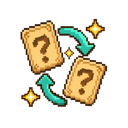
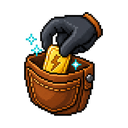
Replace Sneaky Swap with Pickpocket

diff --git a/test/race_detail_sneaky_swap_targets_test.dart b/test/race_detail_sneaky_swap_targets_test.dart
@@ -41,9 +41,21 @@ class _SneakySwapBackendApiService extends BackendApiService {
       'powerupsEnabled': true,
       'endsAt': '2026-12-10T12:00:00.000Z',
       'participants': const [
-        {'userId': 'user-1', 'displayName': 'Trail Walker', 'status': 'ACCEPTED'},
-        {'userId': 'user-2', 'displayName': 'Hill Climber', 'status': 'ACCEPTED'},
-        {'userId': 'user-3', 'displayName': 'Ridge Runner', 'status': 'ACCEPTED'},
+        {
+          'userId': 'user-1',
+          'displayName': 'Trail Walker',
+          'status': 'ACCEPTED',
+        },
+        {
+          'userId': 'user-2',
+          'displayName': 'Hill Climber',
+          'status': 'ACCEPTED',
+        },
+        {
+          'userId': 'user-3',
+          'displayName': 'Ridge Runner',
+          'status': 'ACCEPTED',
+        },
       ],
     };
   }
@@ -78,7 +90,12 @@ class _SneakySwapBackendApiService extends BackendApiService {
       'powerupData': const {
         'enabled': true,
         'inventory': [
-          {'id': 'pw-sneaky-1', 'type': 'SNEAKY_SWAP', 'rarity': 'RARE', 'status': 'HELD'},
+          {
+            'id': 'pw-sneaky-1',
+            'type': 'SNEAKY_SWAP',
+            'rarity': 'RARE',
+            'status': 'HELD',
+          },
         ],
         'powerupSlots': 3,
         'queuedBoxCount': 0,
@@ -145,6 +162,11 @@ Future<void> _openSneakySwapUse(WidgetTester tester) async {
   await tester.tap(heldSlot);
   await _pumpFrames(tester);
 
+  // The wire type and endpoint keep their legacy names for frozen-client
+  // compatibility, but no current player-facing surface may show that name.
+  expect(find.text('Pickpocket'), findsWidgets);
+  expect(find.text('Sneaky Swap'), findsNothing);
+
   // Tap USE in the actions sheet -> triggers the target resolution + picker.
   expect(find.text('USE'), findsOneWidget);
   await tester.tap(find.text('USE'));
@@ -155,7 +177,7 @@ void main() {
   TestWidgetsFlutterBinding.ensureInitialized();
 
   testWidgets(
-    'Sneaky Swap picker shows only racers returned by the new endpoint',
+    'Pickpocket picker shows only racers returned by the legacy endpoint',
     (WidgetTester tester) async {
       final authService = await _createAuthService();
       // Endpoint reports only Hill Climber (user-2) has something stealable.
@@ -204,15 +226,13 @@ void main() {
       );
 
       // Dismiss the picker sheet so no route animation is left pending.
-      Navigator.of(
-        tester.element(find.text('CHOOSE A TARGET')),
-      ).pop();
+      Navigator.of(tester.element(find.text('CHOOSE A TARGET'))).pop();
       await _pumpFrames(tester);
     },
   );
 
   testWidgets(
-    'Sneaky Swap shows an empty-state and no picker when no one has a stealable powerup',
+    'Pickpocket shows an empty-state and no picker when no one has a stealable powerup',
     (WidgetTester tester) async {
       final authService = await _createAuthService();
       final api = _SneakySwapBackendApiService(targets: const []);
@@ -238,7 +258,7 @@ void main() {
         findsOneWidget,
       );
       // No target picker was opened.
-      expect(find.text('TARGET FOR SNEAKY SWAP'), findsNothing);
+      expect(find.text('TARGET FOR PICKPOCKET'), findsNothing);
 
       // Let the toast auto-dismiss timer + reverse animation finish so no
       // Timer/animation is left pending at test teardown. (Avoid pumpAndSettle:

diff --git a/test/shop_tab_store_inventory_test.dart b/test/shop_tab_store_inventory_test.dart
@@ -4,7 +4,9 @@ import 'package:shared_preferences/shared_preferences.dart';
 import 'package:step_tracker/screens/tabs/shop_tab.dart';
 import 'package:step_tracker/services/auth_service.dart';
 import 'package:step_tracker/services/backend_api_service.dart';
+import 'package:step_tracker/services/remote_asset_cache.dart';
 import 'package:step_tracker/styles.dart';
+import 'package:step_tracker/widgets/accessory_thumbnail.dart';
 
 // Store/Inventory overhaul for the shop tab.
 //
@@ -240,6 +242,16 @@ void main() {
     await _selectSegment(tester, 'STORE');
 
     expect(find.text('Signal Jammer'), findsWidgets);
+    final art = tester
+        .widgetList<AccessoryThumbnail>(find.byType(AccessoryThumbnail))
+        .where((thumbnail) => thumbnail.assetKey == 'SIGNAL_JAMMER')
+        .toList();
+    expect(art, isNotEmpty);
+    expect(
+      art.first.remoteKind,
+      RemoteAssetKind.powerups,
+      reason: 'shop art must resolve from the powerups CDN manifest section',
+    );
   });
 
   testWidgets('STORE shows unowned cosmetics but NOT owned ones', (

diff --git a/test/remote_asset_rendering_test.dart b/test/remote_asset_rendering_test.dart
@@ -63,6 +63,7 @@ void main() {
         'assets/images/accessories/shoes.png',
         'assets/images/capybara_walk_right.png',
         'assets/images/powerups/mirror.png',
+        'assets/images/powerups/sneaky_swap.png',
       },
       fetcher: (uri, headers) async => throw const SocketException('offline'),
     );
@@ -617,6 +618,21 @@ void main() {
         ),
         hasLength(1),
       );
+    });
+
+    testWidgets('the CDN Pickpocket art overrides the bundled legacy icon', (
+      tester,
+    ) async {
+      RemoteAssetCache.instance.debugApplyManifest({
+        'powerups': {
+          'SNEAKY_SWAP': {'url': 'https://cdn/powerups/sneaky_swap@abc123.png'},
+        },
+      });
+      await _seedCachedFile(RemoteAssetKind.powerups, 'SNEAKY_SWAP', 'abc123');
+
+      await pumpIcon(tester, 'SNEAKY_SWAP');
+
+      expect(_fileImages(tester, 'SNEAKY_SWAP@abc123'), hasLength(1));
     });
 
     testWidgets('an unknown type with a cached remote icon renders it', (

diff --git a/lib/services/backend_api_service.dart b/lib/services/backend_api_service.dart
@@ -4964,7 +4964,7 @@ class BackendApiService {
     String? targetEffectId,
     int upgradeLevel = 0,
   }) async {
-    // Sneaky Swap's retired swapOfferedPowerupId/swapRequestedPowerupId are
+    // Pickpocket's retired swapOfferedPowerupId/swapRequestedPowerupId are
     // gone: the steal redesign is target-only, and the server ignores the
     // legacy ids anyway.
     final body = <String, dynamic>{};
@@ -5004,7 +5004,7 @@ class BackendApiService {
     return _decodeJsonResponse(response);
   }
 
-  /// Returns the participants the user could Sneaky Swap with right now — only
+  /// Returns the participants the user could Pickpocket right now — only
   /// those holding >=1 stealable powerup (not self, stealthed, or finished).
   /// Additive endpoint; older backends 404 here, so callers should fall back to
   /// the existing eligible-racer behavior on failure.

diff --git a/lib/screens/race_detail_screen.dart b/lib/screens/race_detail_screen.dart
@@ -3194,7 +3194,7 @@ class _RaceDetailScreenState extends State<RaceDetailScreen>
     }
   }
 
-  /// Resolves the Sneaky Swap target list via the new backend endpoint, which
+  /// Resolves the Pickpocket target list via the legacy-named backend endpoint,
   /// returns only racers holding a stealable powerup. The returned userIds are
   /// re-joined with [eligibleTargets] (the live participant rows) so the picker
   /// keeps showing avatars/steps. Defends against an older backend that lacks

diff --git a/lib/constants/powerup_copy.dart b/lib/constants/powerup_copy.dart
@@ -374,7 +374,10 @@ abstract final class PowerupCopy {
     'POCKET_WATCH': 'Pocket Watch',
     'TRAIL_MINE': 'Trail Mine',
     'PINECONE_TOSS': 'Pinecone Toss',
-    'SNEAKY_SWAP': 'Sneaky Swap',
+    // The frozen wire identifier predates the one-way-steal redesign. Keep the
+    // enum for old backend/app compatibility; only the player-facing name is
+    // Pickpocket now.
+    'SNEAKY_SWAP': 'Pickpocket',
     'MIRROR': 'Mirror',
     'CLEANSE': 'Cleanse',
     'IMPOSTER': 'Imposter',

diff --git a/test/admin_toast_test.dart b/test/admin_toast_test.dart
@@ -31,7 +31,8 @@ void main() {
     expect(find.text('Imposter'), findsOneWidget);
     expect(find.text('Rainstorm'), findsOneWidget);
     expect(find.text('Lucky Horseshoe'), findsOneWidget);
-    expect(find.text('Sneaky Swap'), findsOneWidget);
+    expect(find.text('Pickpocket'), findsOneWidget);
+    expect(find.text('Sneaky Swap'), findsNothing);
     expect(find.text('Mirror'), findsOneWidget);
 
     // One row per type PowerupIcon can render. This USED to compare against a

diff --git a/test/batch_2026_08_09_powerup_copy_test.dart b/test/batch_2026_08_09_powerup_copy_test.dart
@@ -205,6 +205,10 @@ void main() {
   });
 
   group('the catalog still overrides every bundled fallback', () {
+    test('the retired Sneaky Swap display name is Pickpocket', () {
+      expect(PowerupCopy.nameFor('SNEAKY_SWAP'), 'Pickpocket');
+    });
+
     test('a server snapshot wins for description and tiers', () async {
       await PowerupCopy.refresh(
         fetch: () async => {

diff --git a/lib/screens/tabs/shop_tab.dart b/lib/screens/tabs/shop_tab.dart
@@ -2301,6 +2301,7 @@ class _ShopTabState extends State<ShopTab> with WidgetsBindingObserver {
     return AccessoryThumbnail(
       assetKey: type,
       assetPath: path,
+      remoteKind: RemoteAssetKind.powerups,
       errorBuilder: (context, error, stackTrace) =>
           PowerupIcon(type: type, size: fallbackSize),
     );

diff --git a/lib/screens/case_opening_screen.dart b/lib/screens/case_opening_screen.dart
@@ -105,8 +105,8 @@ const _powerupEntries = [
   ),
   (
     type: 'SNEAKY_SWAP',
-    name: 'Sneaky Swap',
-    description: 'View and swap a rival powerup',
+    name: 'Pickpocket',
+    description: 'Steal a random powerup from a rival',
   ),
   (
     type: 'MIRROR',

diff --git a/README.md b/README.md
@@ -40,7 +40,7 @@ Bara is an iOS Flutter app that turns your daily step count into a multiplayer r
 - **Mystery box rolls** earned at step thresholds during a race, with three slots and one queue slot.
 - **Box opening** screen with case-opening reveal animation and rarity tiers.
 - **Use, discard, and queue management** with HELD / MYSTERY_BOX / QUEUED / USED / EXPIRED status flow.
-- **Sneaky Swap** powerup with target-selection screen for stealing or swapping rivals' items.
+- **Pickpocket** powerup with target selection for stealing a random powerup from a rival.
 - **Twelve powerup types** including Leg Cramp, Red Card, Shortcut, Compression Socks, Protein Shake, Runner's High, Second Wind, Stealth Mode, Wrong Turn, Fanny Pack, Trail Mix, and Detour Sign.
 - **Live powerup inventory** synced via `/races/:id/inventory`.
 
